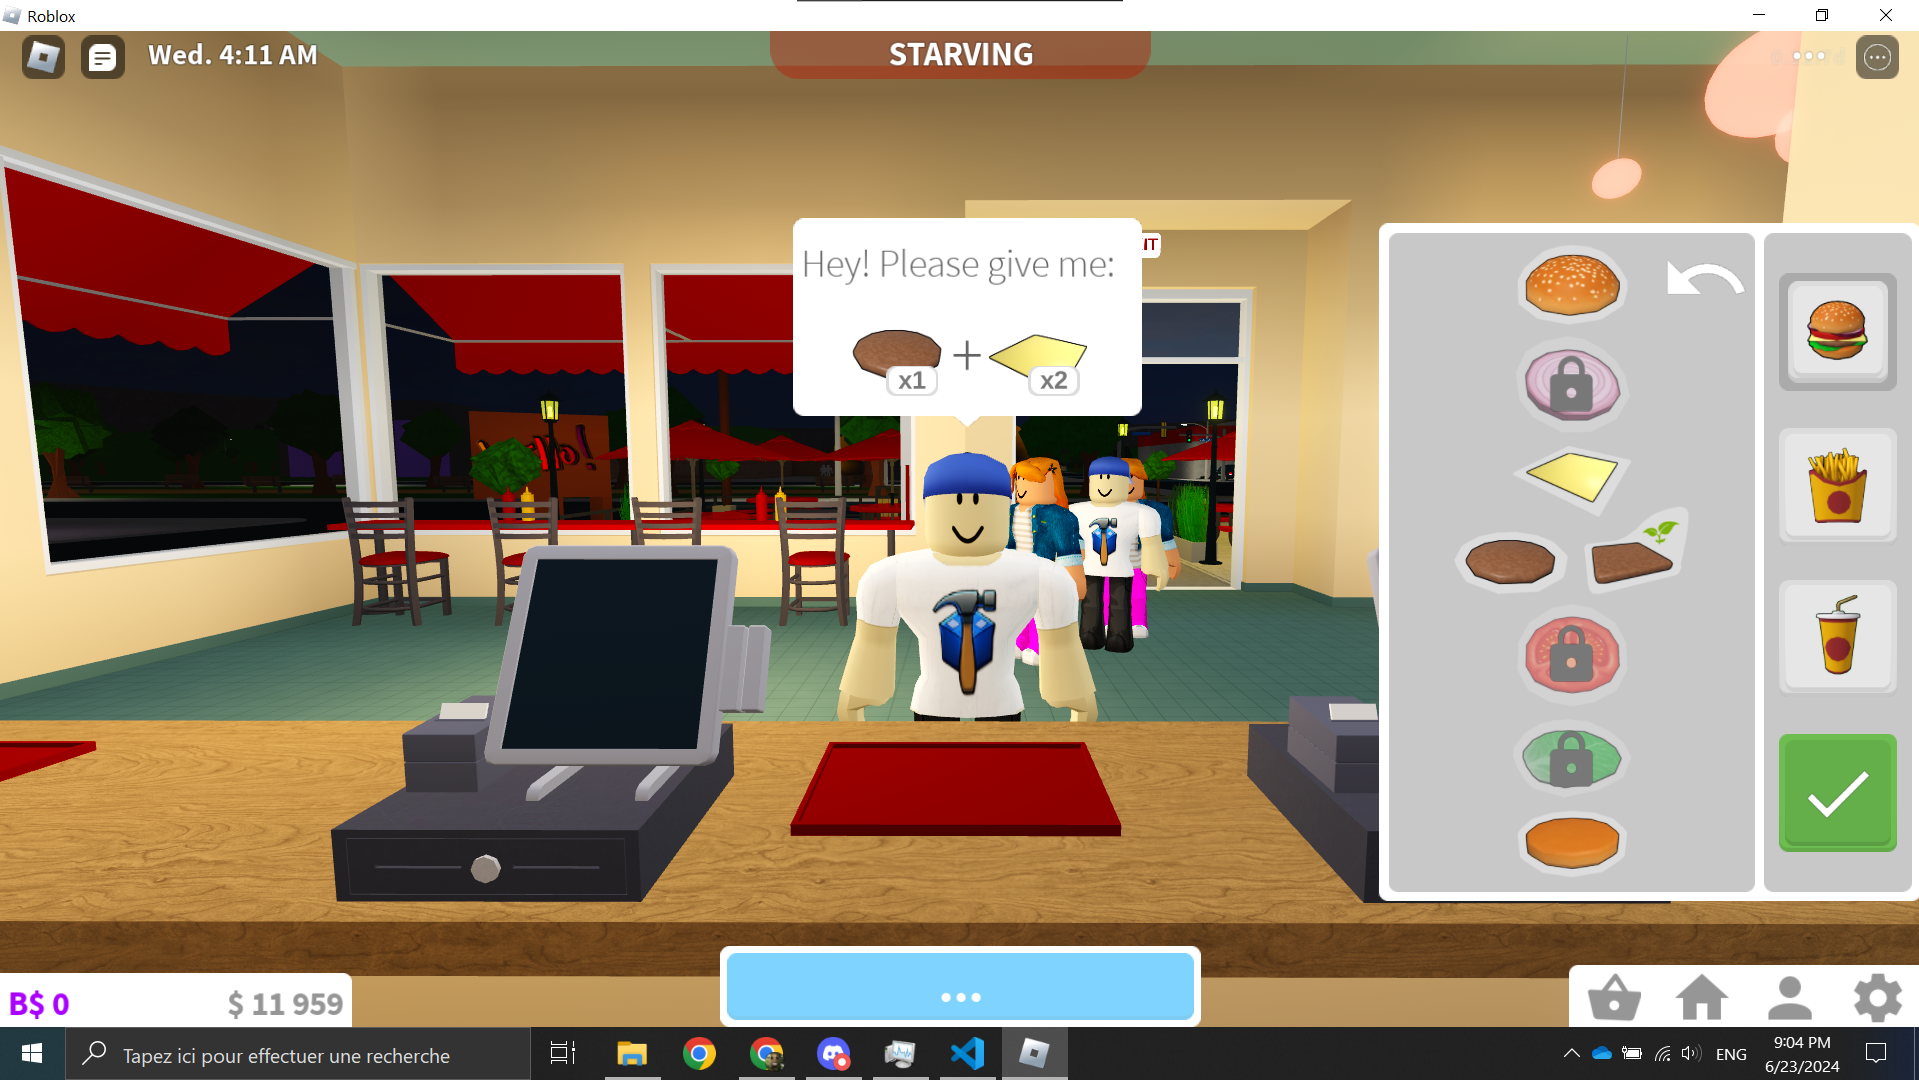
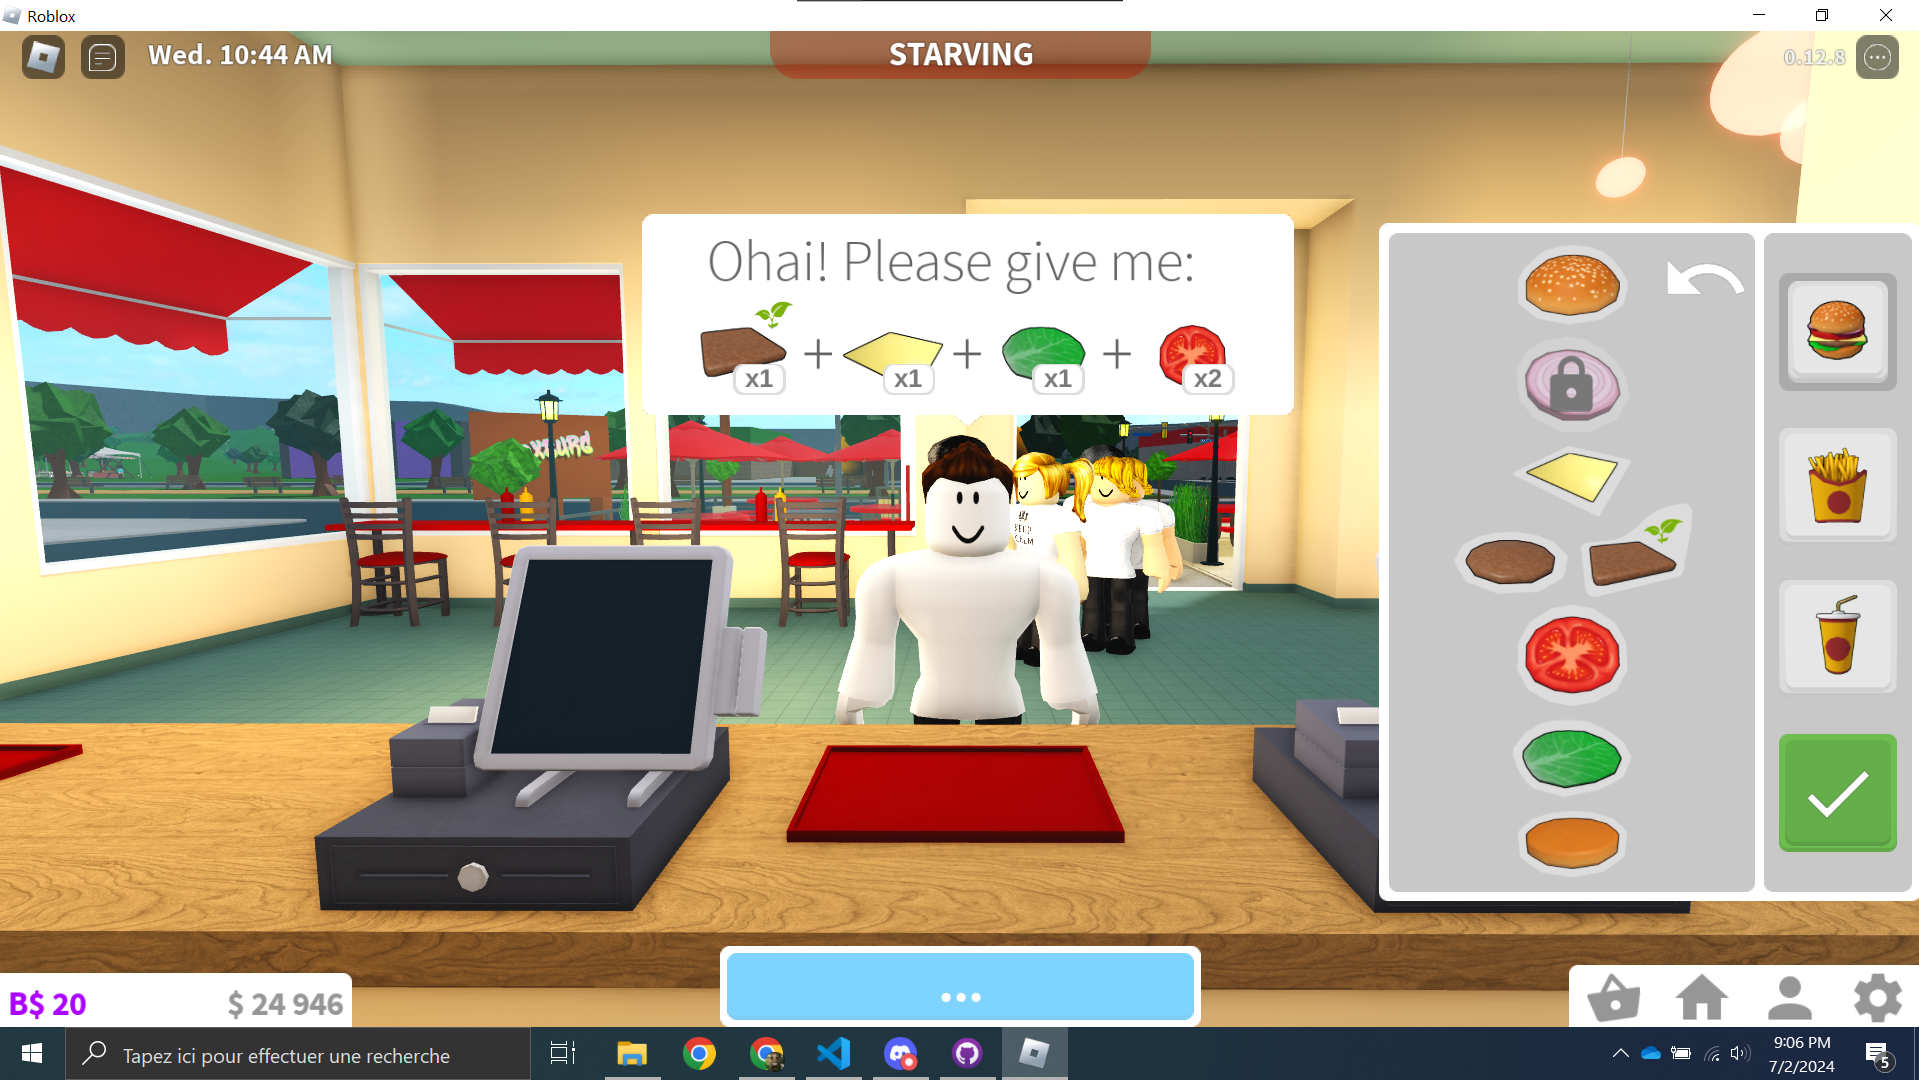
added more images. new bug found.

diff --git a/project/main.py b/project/main.py
@@ -23,7 +23,7 @@ from PIL import Image
 ctypes.windll.shcore.SetProcessDpiAwareness(1)
 pytesseract.pytesseract.tesseract_cmd = r"project\Tesseract-OCR\tesseract.exe"
 
-dialogueRegion = (787, 290, 355, 140) # x, y, width, height
+dialogueRegion = (653, 218, 650, 190) # x, y, width, height
 menuRegion = (1373, 210, 550, 700)
 
 screenShotRate = 0.8 # in seconds
@@ -60,17 +60,19 @@ currentOrderState = OrderState.BURGER
 detectedOrderedItems = []
 detectedMenuItems = []
 detectedItems = []
+detectedItemAmount = []
 
 #region Classes
 #NOTE IF STARTPOSITION IS SET TO 0,0 IT WILL NOT WORK
 class Item:
-    def __init__(self, image : str, outlineColor : tuple[int, int, int], itemName: str, itemType : ItemTypes, positionOnScreen : tuple[int, int] = (0, 0), requestedAmount : int = 1):
+    def __init__(self, image : str, outlineColor : tuple[int, int, int], itemName: str, itemType : ItemTypes, positionOnScreen : tuple[int, int] = (0, 0), requestedAmount : int = 1, detectionThreshold : float = 0.6):
         self.image = image # Image path
         self.outlineColor = outlineColor # Format in BGR
         self.itemName = itemName
         self.itemType = itemType
         self.positionOnScreen = positionOnScreen
         self.requestedAmount = requestedAmount
+        self.detectionThreshold = detectionThreshold
 
 # Images for menu items including buttons
 burgerMenuButton = Item(r"project\img\menuItems\BurgerMenuButton.png", (0, 225, 255), "Burger menu button", ItemTypes.MENU_ITEM)
@@ -80,20 +82,29 @@ menuFinishButton = Item(r"project\img\menuItems\FinishButton.png", (0, 0, 255), 
 
 burgerBunTopItem = Item(r"project\img\menuItems\ingredients\burger\BurgerMenuBunTop.png", (0, 255, 0), "Bun menu top", ItemTypes.MENU_ITEM)
 burgerCheeseItem = Item(r"project\img\menuItems\ingredients\burger\CheeseMenu.png", (0, 255, 0), "Cheese menu", ItemTypes.MENU_ITEM)
-burgerPattyVeganItem = Item(r"project\img\menuItems\ingredients\burger\PattyVeganMenu.png", (0, 255, 0), "Vegan menu patty", ItemTypes.MENU_ITEM)
+burgerPattyVeganItem = Item(r"project\img\menuItems\ingredients\burger\PattyVeganMenu.png", (0, 255, 0), "Vegan menu patty", ItemTypes.MENU_ITEM, detectionThreshold=0.3)
 burgerPattyMeatItem = Item(r"project\img\menuItems\ingredients\burger\PattyMeatMenu.png", (0, 255, 0), "Meat menu patty", ItemTypes.MENU_ITEM)
+burgerTomatoeItem = Item(r"project\img\menuItems\ingredients\burger\TomatoeMenu.png", (0, 255, 0), "Tomatoe menu", ItemTypes.MENU_ITEM)
+burgerLettuceItem = Item(r"project\img\menuItems\ingredients\burger\LettuceMenu.png", (0, 255, 0), "Lettuce menu", ItemTypes.MENU_ITEM)
 burgerBunBottomItem = Item(r"project\img\menuItems\ingredients\burger\BurgerMenuBunBottom.png", (0, 255, 0), "Bun menu bottom", ItemTypes.MENU_ITEM)
 
 normalFriesItem = Item(r"project\img\menuItems\ingredients\fries\FryNormalMenu.png", (0, 255, 0), "Fry normal menu", ItemTypes.MENU_ITEM)
+mozzarellaSicksItem = Item(r"project\img\menuItems\ingredients\fries\MozzarellaSticksMenu.png", (0, 255, 0), "Mozzarella sticks menu", ItemTypes.MENU_ITEM)
 
 normalDrinkItem = Item(r"project\img\menuItems\ingredients\drinks\DrinkNormalMenu.png", (0, 255, 0), "Drink normal menu", ItemTypes.MENU_ITEM)
 
 # Images for dialogue items
 # NOTE: ALL THE DIALOGUE ITEMS NAME MUST END WITH AN "order". EX.: "Cheese order" AND DO NOT ADD ANY ITEMTYPE TO THE SIZES
-cheeseOrder = Item(r"project\img\dialogueItems\burger\CheeseDialogue.png", (255, 0, 0), "Cheese order", ItemTypes.DIALOGUE_ITEM)
+cheeseDialogue = Item(r"project\img\dialogueItems\burger\CheeseDialogue.png", (255, 0, 0), "Cheese order", ItemTypes.DIALOGUE_ITEM, detectionThreshold=0.3)
 pattyMeatDialogue = Item(r"project\img\dialogueItems\burger\PattyMeatDialogue.png", (0, 255, 0), "Patty meat order", ItemTypes.DIALOGUE_ITEM)
 pattyVeganDialogue = Item(r"project\img\dialogueItems\burger\PattyVeganDialogue.png", (0, 20, 0), "Patty vegan order", ItemTypes.DIALOGUE_ITEM)
+pattyVeganDialogue = Item(r"project\img\dialogueItems\burger\PattyVeganDialogue.png", (0, 20, 0), "Patty vegan order", ItemTypes.DIALOGUE_ITEM)
+tomatoeDialogue = Item(r"project\img\dialogueItems\burger\TomatoeDialogue.png", (0, 20, 0), "Tomatoe order", ItemTypes.DIALOGUE_ITEM)
+lettuceDialogue = Item(r"project\img\dialogueItems\burger\LettuceDialogue.png", (0, 255, 0), "Lettuce order", ItemTypes.DIALOGUE_ITEM)
+ 
+mozzarellaSticksOrder = Item(r"project\img\dialogueItems\fries\MozzarellaSticksDialogue.png", (0, 255, 0), "Normal fry order", ItemTypes.DIALOGUE_ITEM)
 normalFryOrder = Item(r"project\img\dialogueItems\fries\FryNormalDialogue.png", (0, 255, 0), "Normal fry order", ItemTypes.DIALOGUE_ITEM)
+
 normalDrinkOrder = Item(r"project\img\dialogueItems\drinks\DrinkNormalDialogue.png", (0, 255, 0), "Normal drink order", ItemTypes.DIALOGUE_ITEM)
 
 
@@ -107,7 +118,7 @@ largeSizeMenu = Item(r"project\img\sizes\menu\Large.png", (0, 255, 0), "Lage siz
 
 smallSizeDialogue = Item(r"project\img\sizes\dialogue\Small.png", (0, 255, 0), "Small size dialogue", ItemTypes.DIALOGUE_ITEM)
 mediumSizeDialogue = Item(r"project\img\sizes\dialogue\Medium.png", (0, 255, 0), "Medium size dialogue", ItemTypes.DIALOGUE_ITEM)
-largeSizeDialogue = Item(r"project\img\sizes\dialogue\Large.png", (0, 255, 0), "Large size dialogue", ItemTypes.DIALOGUE_ITEM)
+largeSizeDialogue = Item(r"project\img\sizes\dialogue\Large.png", (0, 255, 0), "Large size dialogue", ItemTypes.DIALOGUE_ITEM, detectionThreshold=0.75)
 
 # Lists containing all the items for each region. Ex.: the dialogue is one region, so the patty and cheese order is in that list
 menuItems = [
@@ -124,9 +135,12 @@ menuItems = [
     burgerCheeseItem,
     burgerPattyVeganItem,
     burgerPattyMeatItem,
+    burgerTomatoeItem,
+    burgerLettuceItem,
     burgerBunBottomItem,
     
     normalFriesItem,
+    mozzarellaSicksItem,
     
     normalDrinkItem,
 ]
@@ -136,10 +150,15 @@ dialogueItems = [
     mediumSizeDialogue,
     largeSizeDialogue,
 
-    cheeseOrder, 
+    cheeseDialogue, 
     pattyMeatDialogue,
     pattyVeganDialogue,
+    tomatoeDialogue,
+    lettuceDialogue,
+    
     normalFryOrder,
+    mozzarellaSticksOrder,
+    
     normalDrinkOrder,
 ]
 
@@ -173,16 +192,16 @@ def ClickOnItemSize():
         print("LARGE SIZE DETECTED")
         detectedOrderedItems.remove(largeSizeDialogue)
 
-detectedItemAmount = []
-def GetAmountOfItems(region):
-    for item in itemAmounts:
-        regionGray = cv.cvtColor(region, cv.COLOR_BGR2GRAY)
-        template = cv.imread(item.image, cv.IMREAD_GRAYSCALE)
+def GetAmountOfItems(region, item):
+    regionAdaptiveThresh = cv.adaptiveThreshold(region, 255, cv.ADAPTIVE_THRESH_GAUSSIAN_C, cv.THRESH_BINARY, 11, 2)
+    itemCounts = {}  # Dictionary to hold counts of each item
+
+    for amount in itemAmounts:
+        template = cv.imread(amount.image, cv.IMREAD_GRAYSCALE)
         template = cv.adaptiveThreshold(template, 255, cv.ADAPTIVE_THRESH_GAUSSIAN_C, cv.THRESH_BINARY, 11, 2)
-        regionAdaptiveThresh = cv.adaptiveThreshold(regionGray, 255, cv.ADAPTIVE_THRESH_GAUSSIAN_C, cv.THRESH_BINARY, 11, 2)
 
         resolution = cv.matchTemplate(regionAdaptiveThresh, template, cv.TM_CCOEFF_NORMED)
-        locate = np.where(resolution >= 0.8)
+        locate = np.where(resolution >= 0.6)
         points = list(zip(*locate[::-1]))
 
         filteredPoints = []
@@ -190,24 +209,19 @@ def GetAmountOfItems(region):
             if all(np.linalg.norm(np.array(point) - np.array(p)) >= 10 for p in filteredPoints):
                 filteredPoints.append(point)
 
-        h, w = template.shape[:2]  # Get the height and width of the template
-        for point in filteredPoints:
-            top_left = point
-            bottom_right = (top_left[0] + w, top_left[1] + h)
-            cv.rectangle(region, top_left, bottom_right, (0, 255, 0), 2)  # Draw rectangle around the detected item
+        itemCount = len(filteredPoints)
+        if itemCount > 0:
+            itemCounts[amount.itemName] = itemCount
 
-            if (item not in detectedItemAmount):
-                match item.itemName:
-                    case oneItemOrder.itemName:
-                        detectedItemAmount.append(item)
-                        cv.imwrite("oneitem.png", region)  # Save the image with rectangles drawn
-                        return 1
-                    case twoItemOrder.itemName:
-                        detectedItemAmount.append(item)
-                        cv.imwrite("twoitem.png", region)  # Save the image with rectangles drawn
-                        return 2
-            
-    return 1
+    # Determine the final count based on accumulated item counts
+    if oneItemOrder.itemName in itemCounts and itemCounts[oneItemOrder.itemName] == 1:
+        print(item.itemName, "1")
+        return 1
+    elif twoItemOrder.itemName in itemCounts and itemCounts[twoItemOrder.itemName] == 2:
+        print(item.itemName, "2")
+        return 2
+
+    return 0
 
 def GetGlobalItemCenterPosition(point, template, name, regionTopLeft):
     centerX = int(point[0] + template.shape[1] // 2 + regionTopLeft[0])
@@ -215,24 +229,24 @@ def GetGlobalItemCenterPosition(point, template, name, regionTopLeft):
     #print(f"{name} Global Center: ({centerX}, {centerY})")
     return (centerX, centerY)
 
-def DetectElementInRegion(regionRgb, regionGray, itemsList, threshold: float = 0.8):
+def DetectElementInRegion(regionRgb, regionGray, itemsList):
     try:
         global currentOrderState
         
+        regionAdaptiveThresh = cv.adaptiveThreshold(regionGray, 255, cv.ADAPTIVE_THRESH_GAUSSIAN_C, cv.THRESH_BINARY, 11, 2)
         for item in itemsList:
             template = cv.imread(item.image, cv.IMREAD_GRAYSCALE)
             template = cv.adaptiveThreshold(template, 255, cv.ADAPTIVE_THRESH_GAUSSIAN_C, cv.THRESH_BINARY, 11, 2)
-            regionAdaptiveThresh = cv.adaptiveThreshold(regionGray, 255, cv.ADAPTIVE_THRESH_GAUSSIAN_C, cv.THRESH_BINARY, 11, 2)
             w, h = template.shape[::-1]
             resolution = cv.matchTemplate(regionAdaptiveThresh, template, cv.TM_CCOEFF_NORMED)
-            locate = np.where(resolution >= threshold)
+            locate = np.where(resolution >= item.detectionThreshold)
             points = list(zip(*locate[::-1]))
             
             filteredPoints = []
             for point in points:
                 if all(np.linalg.norm(np.array(point) - np.array(p)) >= 10 for p in filteredPoints):
                     filteredPoints.append(point)
-                    break  
+                    break
         
             for point in filteredPoints:
                 if (item not in detectedItems):
@@ -245,13 +259,14 @@ def DetectElementInRegion(regionRgb, regionGray, itemsList, threshold: float = 0
                             detectedOrderedItems.append(item)
 
                         # Get amount of items based on the dialogue item
+                        getAmountOfItems = GetAmountOfItems(regionGray[point[1]:point[1]+h, point[0]:point[0]+w], item)
                         match item.itemName:
-                            case cheeseOrder.itemName:
-                                burgerCheeseItem.requestedAmount = GetAmountOfItems(regionRgb[point[1]:point[1]+h, point[0]:point[0]+w])
+                            case cheeseDialogue.itemName:
+                                burgerCheeseItem.requestedAmount = getAmountOfItems
                             case pattyMeatDialogue.itemName:
-                                burgerPattyMeatItem.requestedAmount = GetAmountOfItems(regionRgb[point[1]:point[1]+h, point[0]:point[0]+w])
+                                burgerPattyMeatItem.requestedAmount = getAmountOfItems
                             case pattyVeganDialogue.itemName:
-                                burgerPattyVeganItem.requestedAmount = GetAmountOfItems(regionRgb[point[1]:point[1]+h, point[0]:point[0]+w])
+                                burgerPattyVeganItem.requestedAmount = getAmountOfItems
                                             
                     case ItemTypes.MENU_ITEM:
                         if (item not in detectedMenuItems):
@@ -272,16 +287,21 @@ def ProcessOrder():
         match currentOrderState:
             case OrderState.BURGER:
                 # Add a extra check here so that it checks if the NPC has ordered a patty. This is to wait until the order loads.
-                if (pattyMeatDialogue in detectedOrderedItems or pattyVeganDialogue in detectedOrderedItems):
+                if any(item in detectedOrderedItems for item in [pattyMeatDialogue, pattyVeganDialogue, tomatoeDialogue, lettuceDialogue, cheeseDialogue]):
                     ClickOnItem(burgerBunBottomItem)
+                    
+                    if (lettuceDialogue in detectedOrderedItems):
+                        ClickOnItem(burgerLettuceItem)
+                    
+                    if (tomatoeDialogue in detectedOrderedItems):
+                        ClickOnItem(burgerTomatoeItem)
                     
                     if (pattyMeatDialogue in detectedOrderedItems):
                         ClickOnItem(burgerPattyMeatItem)
                     elif (pattyVeganDialogue in detectedOrderedItems):
                         ClickOnItem(burgerPattyVeganItem)
                     
-                    if (cheeseOrder in detectedOrderedItems):
-                        # CHECK THE LEN OF THE DETECTED AMOUNT OF ITEMS LIST TO WAIT FOR THE AMOUNT OF ITEMS TO BE DETECTED
+                    if (cheeseDialogue in detectedOrderedItems):
                         ClickOnItem(burgerCheeseItem)
                     
                     ClickOnItem(burgerBunTopItem)
@@ -290,9 +310,11 @@ def ProcessOrder():
                     currentOrderState = OrderState.FRIES
             case OrderState.FRIES:
                 # Check if the fries order is in the detectedOrderedItems list, since theres still orders that we havent unlocked yet
-                if (normalFryOrder in detectedOrderedItems):
+                if (normalFryOrder in detectedOrderedItems or mozzarellaSticksOrder in detectedOrderedItems):
                     if (normalFryOrder in detectedOrderedItems):
                         ClickOnItem(normalFriesItem)
+                    elif (mozzarellaSicksItem in detectedOrderedItems):
+                        ClickOnItem(mozzarellaSicksItem)
 
                     ClickOnItemSize()
                     
@@ -340,8 +362,8 @@ try:
     while True:
         TakeScreenshot()
         
-        DetectElementInRegion(dialogueRgb, dialogueGray, dialogueItems, 0.585)
-        DetectElementInRegion(menuRgb, menuGray, menuItems, 0.6)
+        DetectElementInRegion(dialogueRgb, dialogueGray, dialogueItems)
+        DetectElementInRegion(menuRgb, menuGray, menuItems)
 
         ProcessOrder()
 
